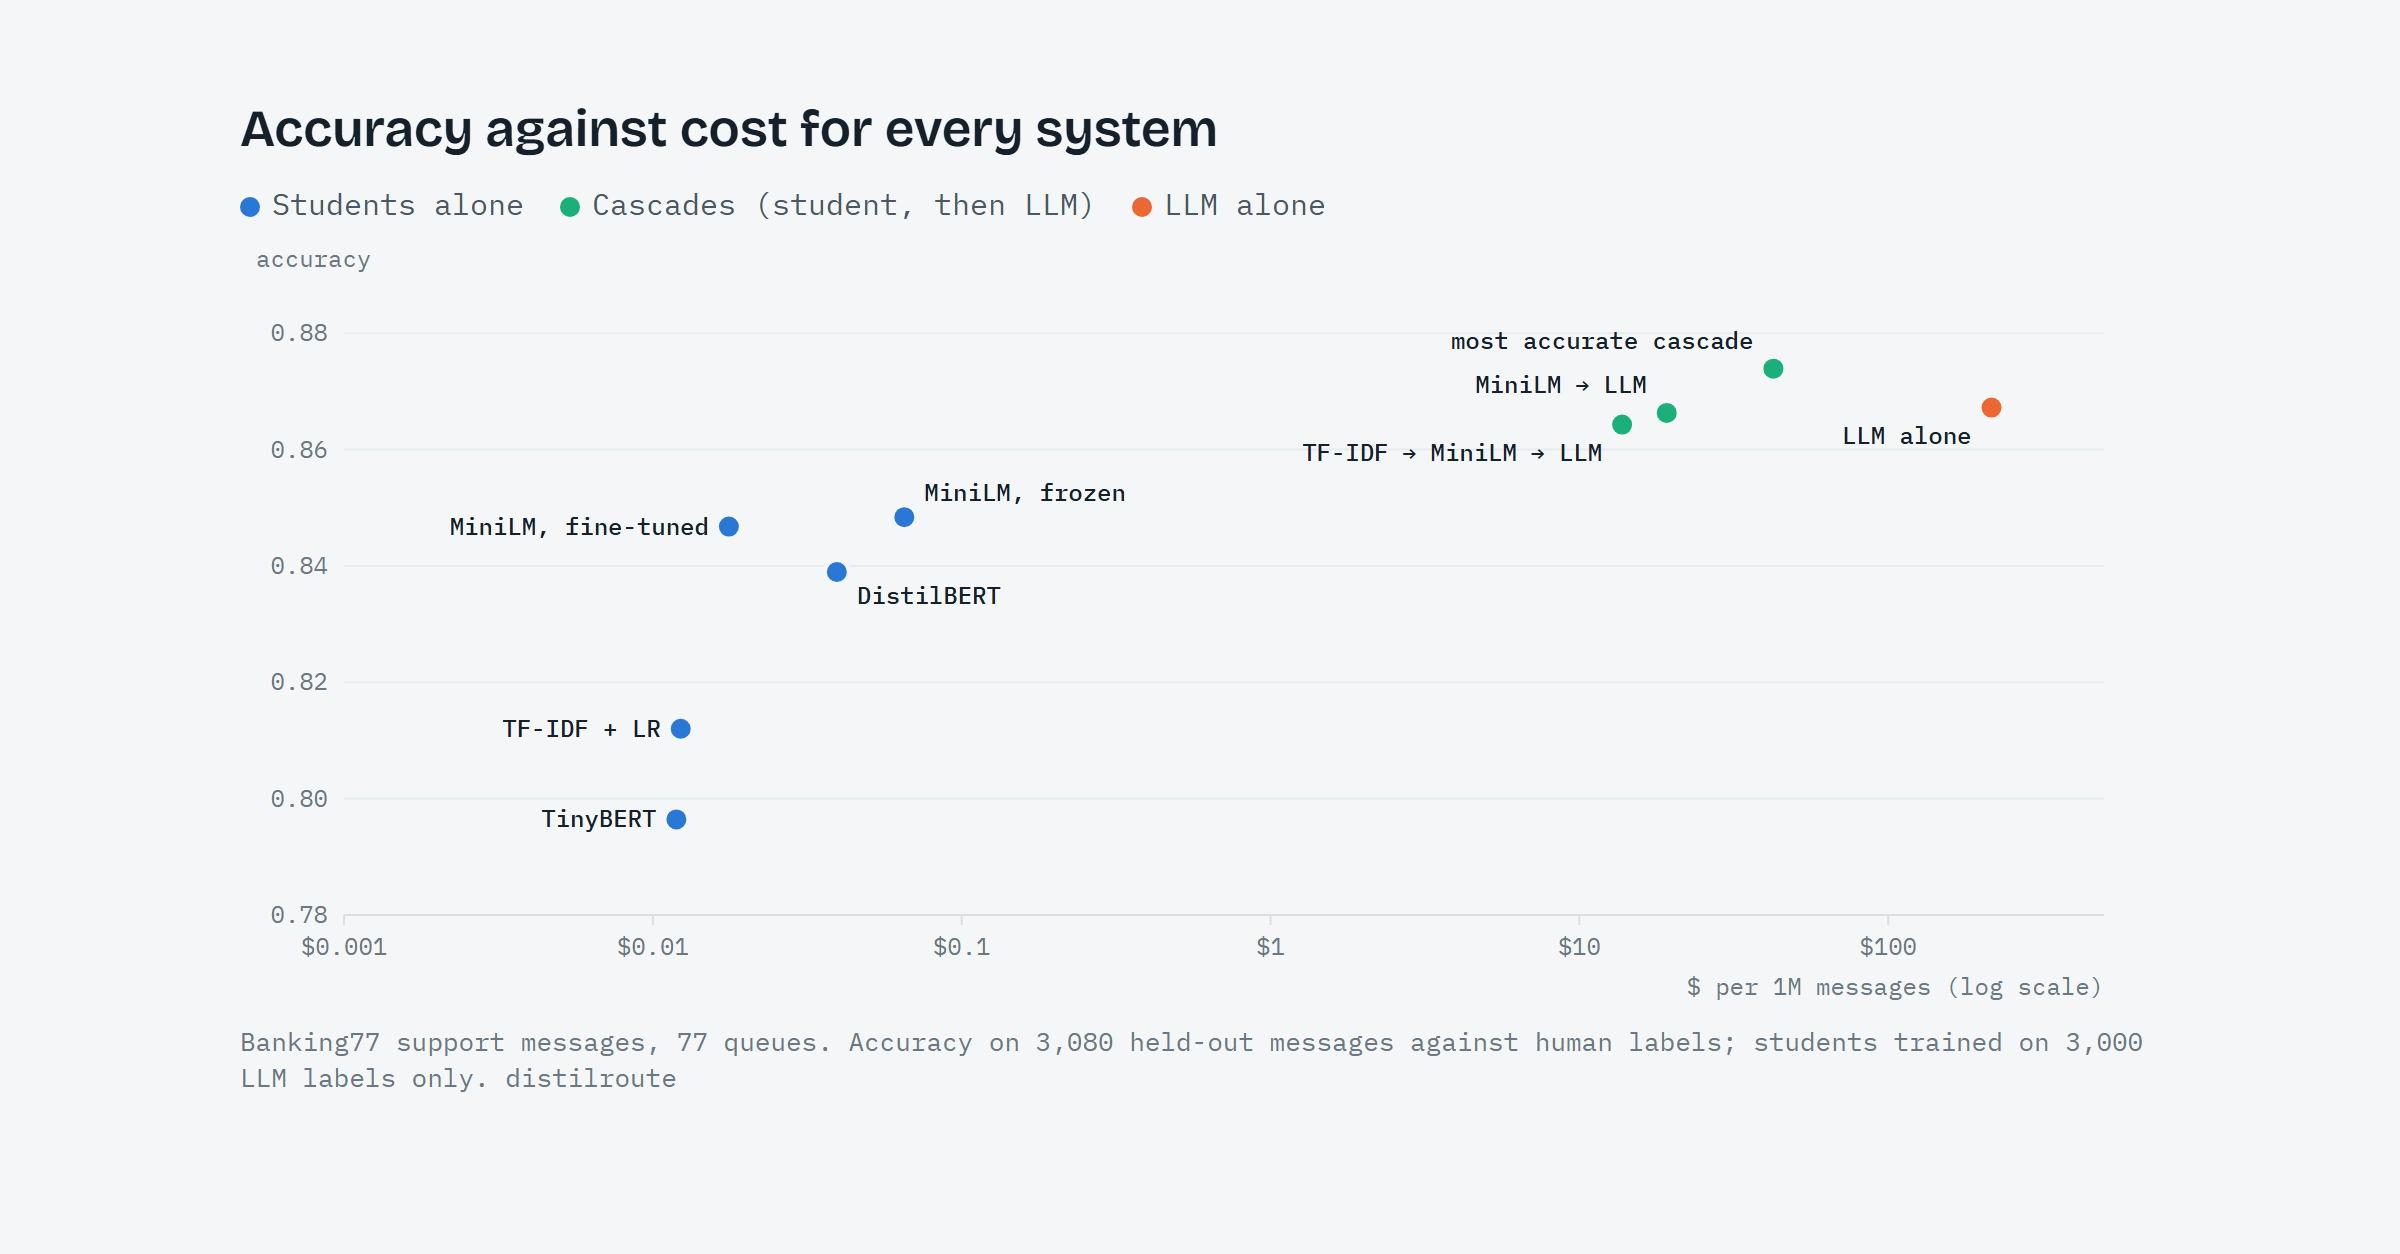
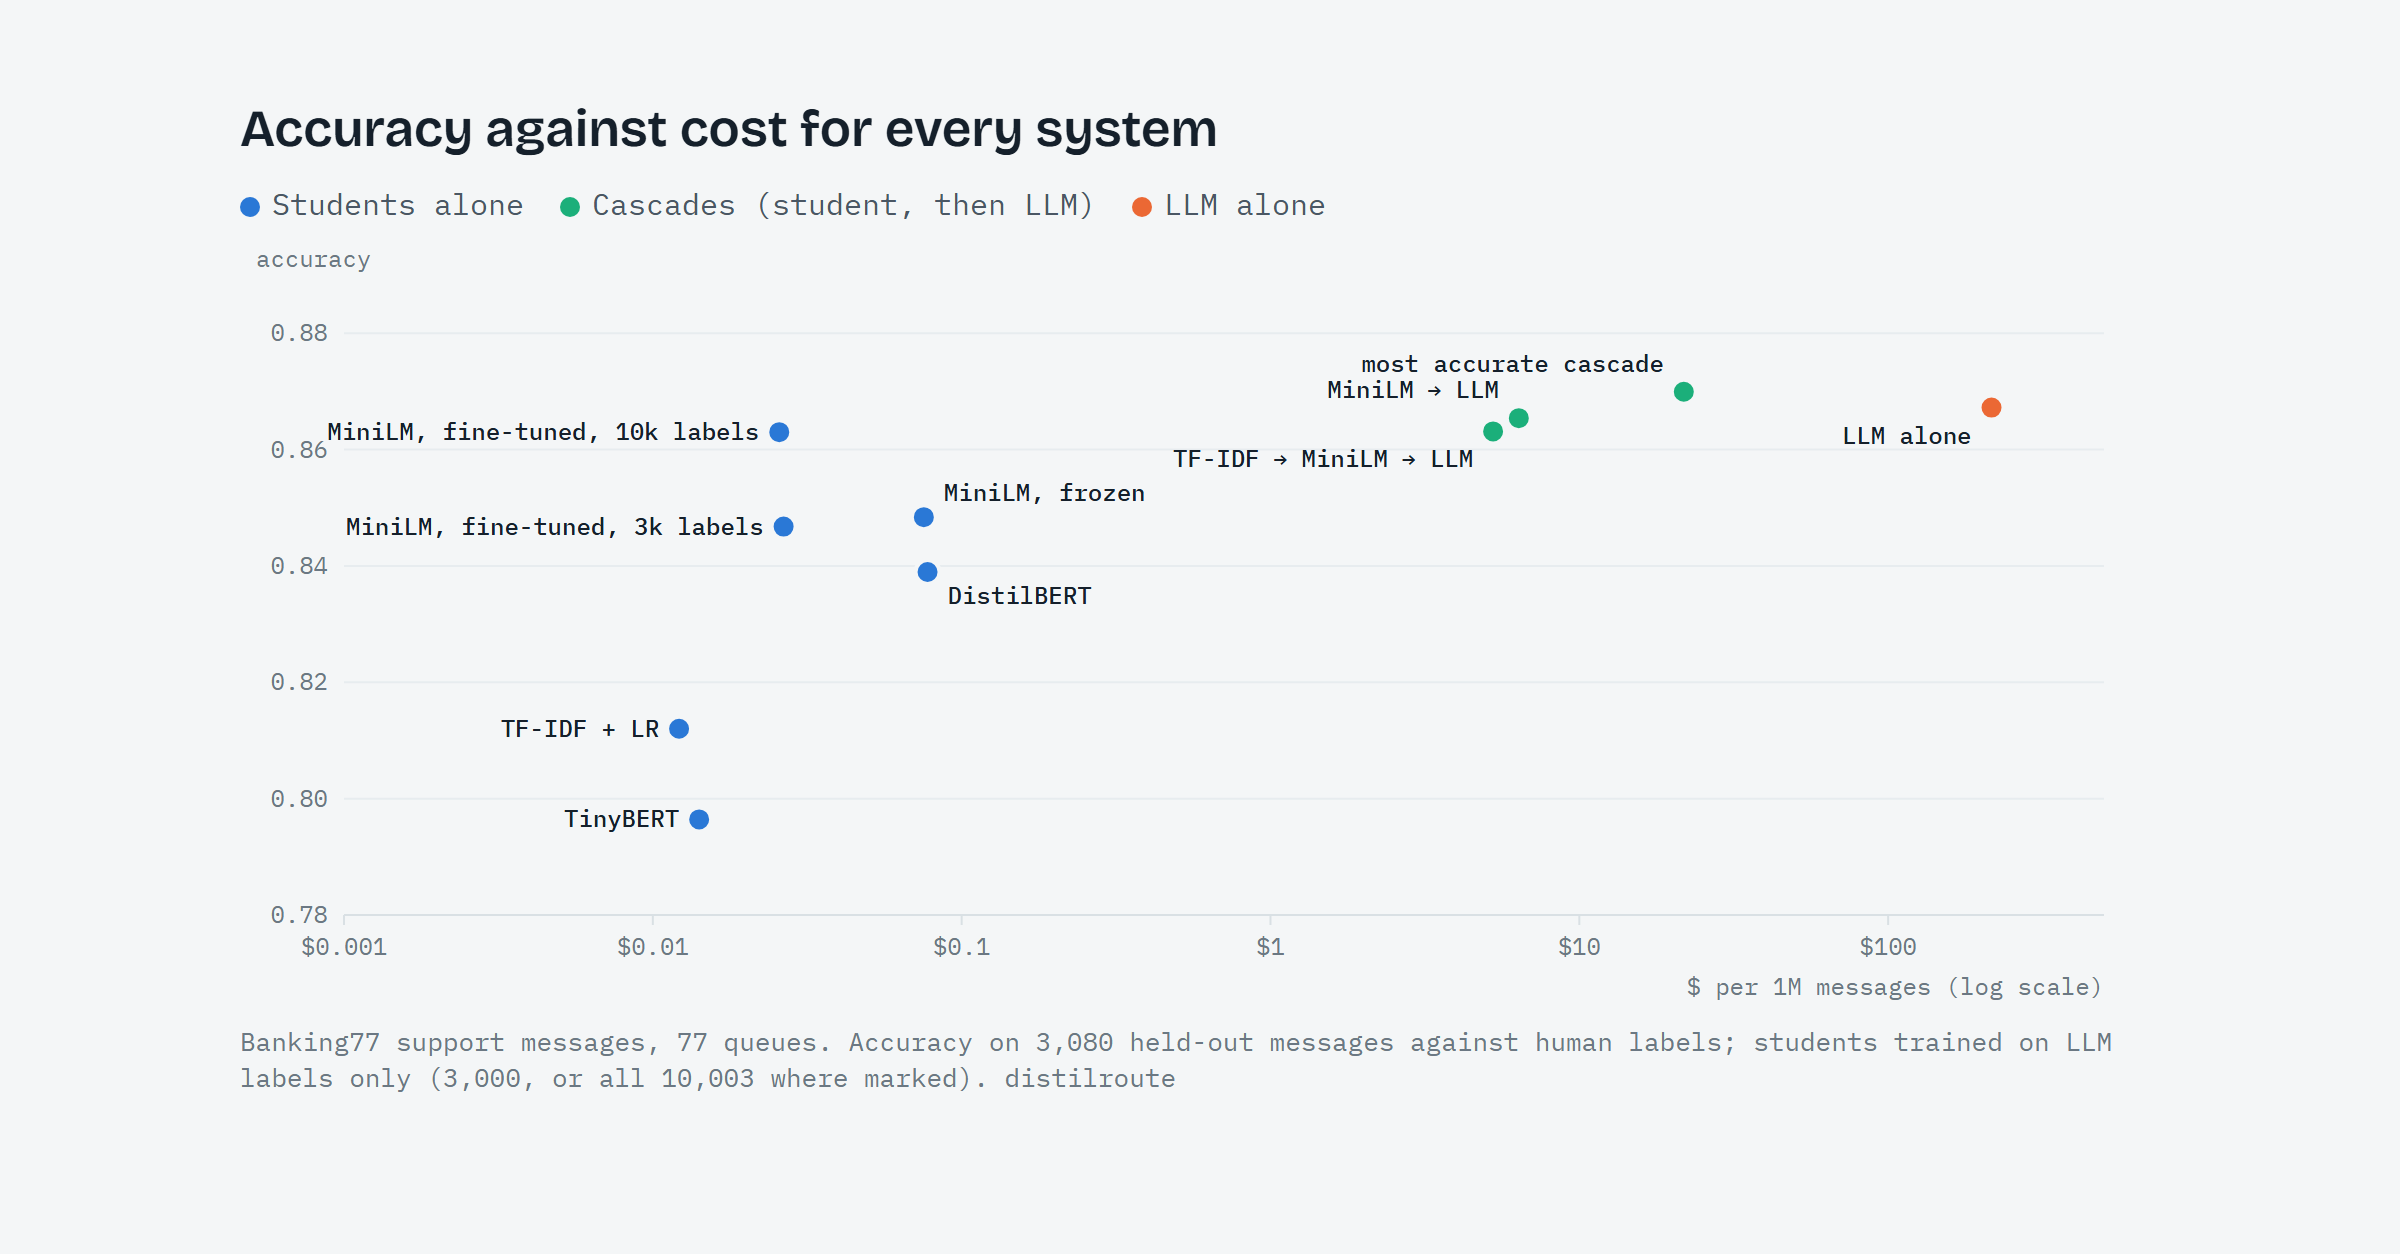
Phase 5 queued (CLINC150 test labels), post image re-rendered, ROADMAP
jobs.py: the remaining 3,000 CLINC150 test labels in the same seed-0 order
as the first 1,500, then evaluate.py on the full split. pareto_linkedin.png
predated the 10k-label point; its source note now says which label count.
ROADMAP: the aug+OE 0.95 threshold question settled from docs/stress.md.

diff --git a/scripts/jobs.py b/scripts/jobs.py
@@ -105,6 +105,24 @@ STEPS = [
         done=lambda: (ROOT / "results" / "clinc150" / "minilm_frozen_teacher.json").exists(),
         env=CLINC,
     ),
+    # Phase 5 (2026-11-06): the first 1,500 of the same seed-0 order are done; the rest makes
+    # the CLINC150 teacher number and cascade columns cover the whole test split
+    label_step(
+        "remaining clinc150 test labels (5)",
+        "groq",
+        LABELS / "clinc150" / "test.jsonl",
+        4500,
+        ["--split", "test", "--seed", "0", "--top-k", "3"],
+        env=CLINC,
+    ),
+    Step(
+        "clinc150 results on the full test split (5)",
+        "groq",
+        [[PY, "scripts/evaluate.py"]],
+        done=lambda: "full 4,500-query test split"
+        in (ROOT / "docs" / "clinc150" / "results.md").read_text(encoding="utf-8"),
+        env=CLINC,
+    ),
     Step(
         "teacher latency (3.2)",
         "groq",

diff --git a/scripts/post_image.py b/scripts/post_image.py
@@ -35,7 +35,7 @@ WIDTH, HEIGHT = 1200, 627  # LinkedIn landscape, 1.91 : 1
 
 NOTE = (
     "Banking77 support messages, 77 queues. Accuracy on 3,080 held-out messages against human "
-    "labels; students trained on 3,000 LLM labels only. distilroute"
+    "labels; students trained on LLM labels only (3,000, or all 10,003 where marked). distilroute"
 )
 ONLY_FIRST_FIGURE = """
 <script>document.documentElement.dataset.theme = "light";</script>

diff --git a/ROADMAP.md b/ROADMAP.md
@@ -318,6 +318,31 @@ run while `jobs.py` labels.
 
 ## Session log
 
+**2026-11-06 (optional items judged)**
+
+- **aug+OE at `ALSO_THRESHOLD` 0.95: closed, model-v3 stays served.** Already measured in
+  `docs/stress.md`: found 41 % / invented 1 % at 0.95, vs v3's 50 % / 2 % at 0.9. A stricter
+  threshold buys back the invented-`also` rate but cannot pass RUNBOOK §3: int8 0.862 is not
+  *above* 0.862, and 120-word tickets with the filter stay at 0.79–0.81 vs v3's 0.83–0.85
+  (the threshold does not touch them). No run needed.
+- **Phase 5 is not covered by CLINC150 yet.** `docs/clinc150/results.md` has the teacher on
+  1,500 / 4,500 test queries (intent-sorted, so not a random sample) and empty cascade
+  columns; the README uses CLINC150 only as out-of-scope traffic. Finishing it needs ~3,000
+  more teacher labels (free Groq key in `.env`, `jobs.py` over a few days), then
+  `DISTILROUTE_DATASET=clinc150` through `evaluate.py` / `cascade.py`. **Started the same day:**
+  new Groq key, `jobs.py` steps "remaining clinc150 test labels (5)" (same seed-0 order the first
+  1,500 came from, checked) and "clinc150 results on the full test split (5)". After it lands:
+  the CLINC150 paragraph of `docs/case-study/template.html` (still says the training labels are
+  "still to come") and a README transfer finding.
+- **HF release fix (7.4):** `build_hf_release.py` shipped `max_length` 64 while the service reads
+  512 (`students.MAX_TOKENS`) — the Space and `route.py` would have scored 0.013 on a question
+  ending a 120-word ticket. Now imports `MAX_TOKENS`; built `route.py` matches the service on 301
+  messages (300 test + one long ticket), 0 differ. Build passes; publishing still needs `hf auth login`.
+- **4.2 post** (`portfolio-notes/linkedin_post_distilroute.md`) moved to model-v3 numbers, with a
+  placeholder for the 7.1 result; `pareto_linkedin.png` re-rendered (it predated the 10k point)
+  with a corrected source note (`post_image.py`).
+- **7.1:** the user does the remaining 195 rows.
+
 **2026-10-18 (HANDOFF — start here next session)**
 
 - **Colab run (aug + OE, seed 1 of model-v3) unpacked and judged.** `minilm_ft_aug_oe_10k_teacher`
